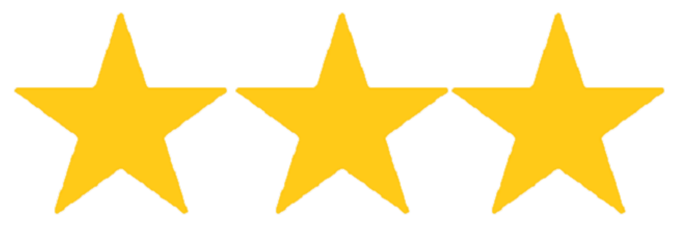
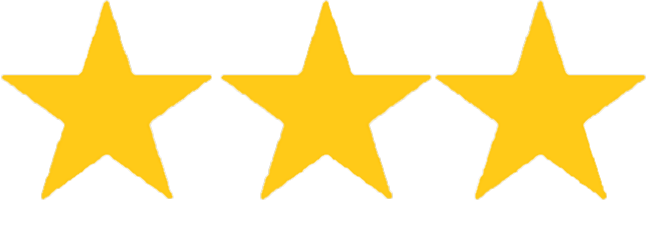
css

Changed region(s): [[0.1846, 0.0, 1.0, 0.9156], [0.0, 0.0, 0.2769, 0.9156]]

diff --git a/calendar.js b/calendar.js
@@ -246,13 +246,13 @@ function FillGameSessions_List(){
         var icone;
 
         switch (success){
-            case 0 : icone = `<img src="./css/img/NOstar.png" class="star">`;
+            case 0 : icone = `<img src="./css/img/nostarblackempty.png" class="star">`;
             break;
-            case 1 : icone =`<img src="./css/img/ZEROstar.png" class="star">`;
+            case 1 : icone =`<img src="./css/img/zerostaremptyblack.png" class="star">`;
             break;
-            case 2 : icone =`<img src="./css/img/ONEstar.png" class="star">`;
+            case 2 : icone =`<img src="./css/img/onestaremptyblack.png" class="star">`;
             break;
-            case 3 : icone=`<img src="./css/img/TWOstar.png" class="star">`;
+            case 3 : icone=`<img src="./css/img/twostaremptyblack.png" class="star">`;
             break;
             case 4 : icone=`<img src="./css/img/THREEstar.png" class="star">`;
              break;
@@ -265,7 +265,7 @@ function FillGameSessions_List(){
         //on boucle sur le tableau des Missionions avec l'Id afin de récupère les codenames
         for (var j=0;j<tableau_Missions.length;j++){
             if(tableau_GameSessions[i].MissionId == tableau_Missions[j].Id){
-                tableau['title']="<div class='d-flex justify-content-start flex-wrap text-dark'>"+"<div >"+tableau_GameSessions[i].StartDate.substring(11,16)+"</div>"+" - "+"<div>"+min+"</div>"+" - "+"<figure>"+icone+"</figure>"+" - "+"<div>"+tableau_Missions[j].CodeName+"</div>"+"</div>";
+                tableau['title']="<div class='d-flex justify-content-start flex-wrap text-dark mission'>"+"<div class=''>"+tableau_GameSessions[i].StartDate.substring(11,16)+"</div>"+" &nbsp;"+"<div>"+min+"</div>"+"&nbsp;"+"<figure>"+icone+"</figure>"+" &nbsp;"+"<div>"+tableau_Missions[j].CodeName+"</div></div>";
             }
         }
 

diff --git a/css/style.css b/css/style.css
@@ -153,3 +153,12 @@ figure{
     background: linear-gradient(90deg, rgba(255,35,35,1) 0%, rgba(255,0,0,1) 100%);
 
 }
+
+.mission:hover{
+font-weight: bold;
+}
+
+.fc-daygrid-day-frame:hover{
+    background-color: beige;
+    cursor: pointer;
+}
